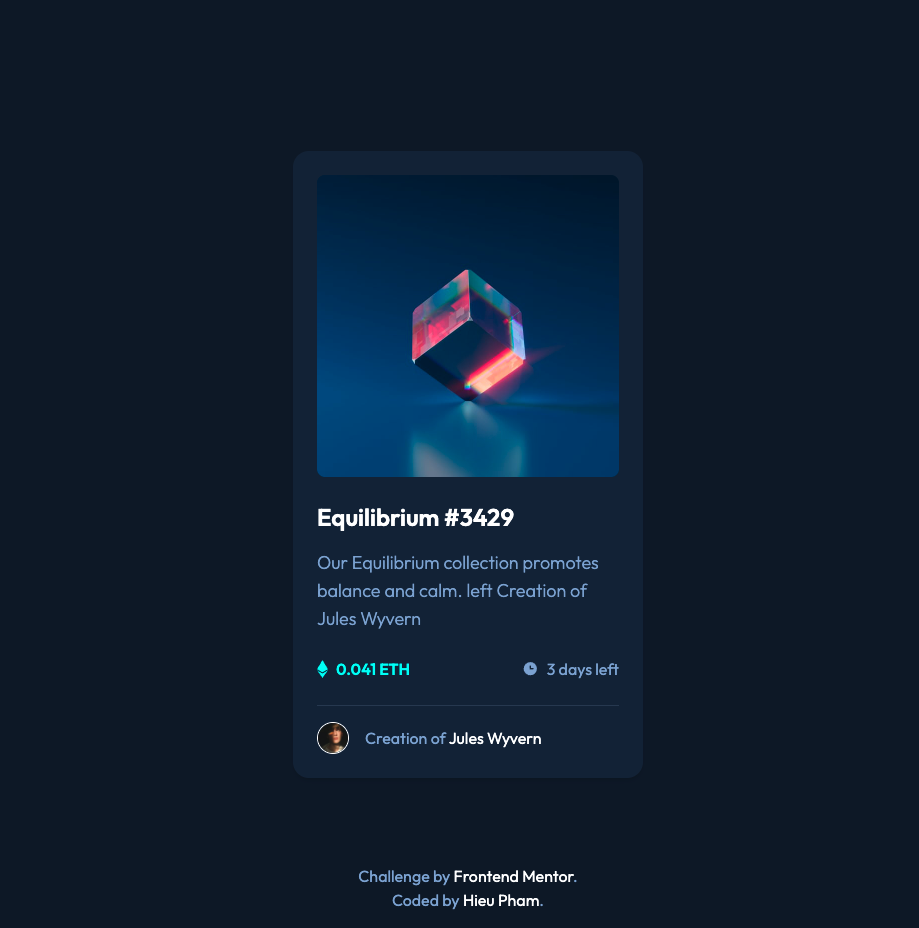
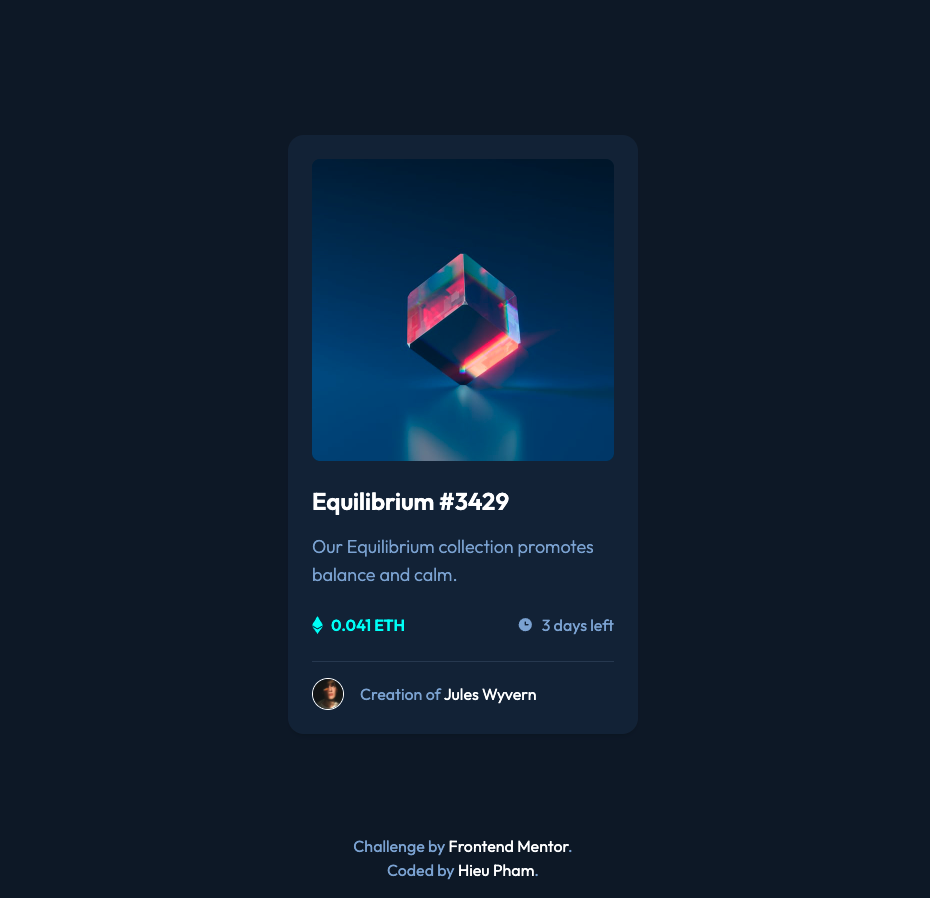
fix: fix typo

diff --git a/index.html b/index.html
@@ -45,8 +45,7 @@
         </h1>
         <!-- Subtitle -->
         <p class="text-lg mt-4 text-soft-blue font-light">
-          Our Equilibrium collection promotes balance and calm. left Creation of
-          Jules Wyvern
+          Our Equilibrium collection promotes balance and calm.
         </p>
         <!-- Price and time -->
         <div class="flex mt-6 justify-between">

diff --git a/src/index.html b/src/index.html
@@ -45,8 +45,7 @@
         </h1>
         <!-- Subtitle -->
         <p class="text-lg mt-4 text-soft-blue font-light">
-          Our Equilibrium collection promotes balance and calm. left Creation of
-          Jules Wyvern
+          Our Equilibrium collection promotes balance and calm.
         </p>
         <!-- Price and time -->
         <div class="flex mt-6 justify-between">
